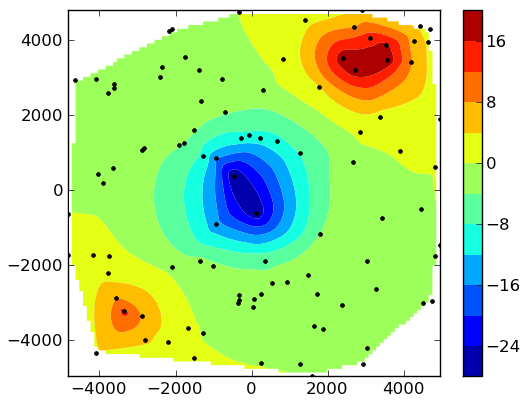
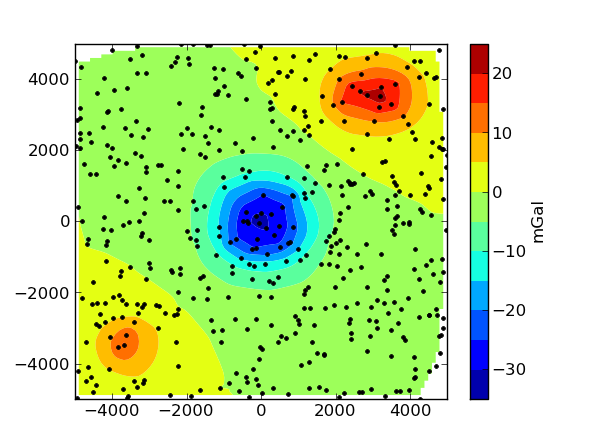
Added changelog to docs, moved install to getting-started, added links to contributors

diff --git a/fatiando/vis/__init__.py b/fatiando/vis/__init__.py
@@ -25,5 +25,5 @@ from fatiando.vis.vtk import *
 
 # Get some useful things from matplotlib
 from matplotlib.pyplot import (plot, show, figure, xlim, ylim, xlabel, ylabel,
-    gca, axis, subplot, savefig, legend)
+    gca, axis, subplot, savefig, legend, colorbar, grid, hist, title)
     

diff --git a/doc/index.rst b/doc/index.rst
@@ -1,5 +1,5 @@
-Welcome to Fatiando a Terra
-===========================
+Welcome to Fatiando a Terra's documentation
+===========================================
 
 Fatiando a Terra is an open source toolkit for geophysical modeling and
 inversion. Fatiando provides an easy and flexible way to perform common
@@ -11,52 +11,56 @@ This means that it can be reused and remixed
 with few restrictions.
 See the license text for more information.
 
-The main interface for Fatiando is provided by a
-`Python <http://www.python.org>`_ package (:ref:`the API <api>`). This means that
-commands in Fatiando are in executed using Python scripts, instead of the
-command line or shell scripts. The advantage of this is that Python is a very
-feature rich and powerful programming language. So, you can easily extend the
-functionality of Fatiando with your own code!
+The main interface for Fatiando
+is provided by a Python_ package (:ref:`the API <api>`).
+This means that commands in Fatiando
+are executed using Python scripts,
+instead of the command line or shell scripts.
+The advantage of this is that
+Python is a very feature rich and powerful programming language.
+So, you can easily combine different commands together
+and even extend the functionality of Fatiando with your own code!
+
+.. _Python: http://www.python.org
 
 As an example, this is how easy it is to create synthetic noise-corrupted
 gravity data on random points from a 3D prism model:
 
 .. doctest::
 
-    >>> # Get the needed components
-    >>> from matplotlib import pyplot
-    >>> from fatiando import potential, gridder, utils, vis
-    >>> from fatiando.mesher.ddd import Prism
+    >>> import fatiando as fat
     >>> # Create the prism model
-    >>> prisms = [Prism(-4000, -3000, -4000, -3000, 0, 2000, {'density':1000}),
-    ...           Prism(-1000, 1000, -1000, 1000, 0, 2000, {'density':-1000}),
-    ...           Prism(2000, 4000, 3000, 4000, 0, 2000, {'density':1000})]
-    >>> # Generate 100 random observation points at 100m height
-    >>> xp, yp, zp = gridder.scatter((-5000, 5000, -5000, 5000), 100, z=-100)
+    >>> prisms = [
+    ...     fat.msh.ddd.Prism(-4000, -3000, -4000, -3000, 0, 2000, {'density':1000}),
+    ...     fat.msh.ddd.Prism(-1000, 1000, -1000, 1000, 0, 2000, {'density':-1000}),
+    ...     fat.msh.ddd.Prism(2000, 4000, 3000, 4000, 0, 2000, {'density':1000})]
+    >>> # Generate 500 random observation points at 100m height
+    >>> xp, yp, zp = fat.grd.scatter((-5000, 5000, -5000, 5000), 500, z=-100)
     >>> # Calculate their gravitational effect and contaminate it with 0.1 mGal
     >>> # gaussian noise
-    >>> gz = utils.contaminate(potential.prism.gz(xp, yp, zp, prisms), 0.1)
+    >>> gz = fat.utils.contaminate(fat.pot.prism.gz(xp, yp, zp, prisms), 0.1)
     >>> # Plot the result
-    >>> vis.map.contourf(xp, yp, gz, (100, 100), 12, interpolate=True)
-    >>> pyplot.plot(xp, yp, '.k')
-    >>> pyplot.colorbar()
-    >>> pyplot.show()
+    >>> fat.vis.contourf(xp, yp, gz, (100, 100), 12, interp=True)
+    >>> cb = fat.vis.colorbar()
+    >>> cb.set_label('mGal')
+    >>> fat.vis.plot(xp, yp, '.k')
+    >>> fat.vis.show()
 
-which results in
+which results in something like this:
 
 .. image:: _static/sample.png
     :align: center
 
-
 If you want to find out more,
-have a look at the rest of the documentation.
+have a look at the rest of this documentation.
 
 .. toctree::
-    :maxdepth: 1
+    :maxdepth: 2
 
     contributors.rst
     license.rst
-    install.rst
+    changelog.rst
+    getting-started.rst
     cookbook/index.rst
     api/index.rst
 

diff --git a/doc/changelog.rst b/doc/changelog.rst
@@ -1,0 +1,17 @@
+.. _changelog:
+
+Changelog
+=========
+
+Changes in 0.1
+--------------
+
+* Change license to BSD (see the :ref:`license text <license>`).
+* The API is now fully accessible by only import fatiando. Modules and packages
+  have short nicknames for easier access (e.g., pot for potential).
+* Import all from map and vtk in vis/__init__.py, plus some functions from
+  matplotlib. Now all plotting functions are available from vis directly.
+* If building inplace or packaging, the setup script puts the Mercurial
+  changeset hash in a file. Then logger.header loads the hash from file and put
+  a "Unknown" if it can't read. This way importing fatiando won't fail if the
+  there is no changeset information available.

diff --git a/doc/contributors.rst b/doc/contributors.rst
@@ -5,6 +5,10 @@ Contributors
 
 A (hopefully) updated list of people who contributed to Fatiando a Terra:
 
-* Leonardo Uieda - Observatório Nacional, Brazil - leouieda[at]gmail[dot]com
-* Vanderlei Coelho de Oliveira Junior - Observatório Nacional, Brazil
-* José Fernando Caparica Junior - LENEP, Brazil
+* `Leonardo Uieda`_ - Observatório Nacional, Brazil
+* `Vanderlei Coelho de Oliveira Junior`_ - Observatório Nacional, Brazil
+* `José Fernando Caparica Junior`_ - LENEP, Brazil
+
+.. _Leonardo Uieda: http://fatiando.org/people/uieda
+.. _Vanderlei Coelho de Oliveira Junior: http://fatiando.org/people/oliveira-jr
+.. _José Fernando Caparica Junior: http://fatiando.org/people/caparicajr

diff --git a/doc/getting-started.rst b/doc/getting-started.rst
@@ -1,0 +1,8 @@
+.. _getting-started:
+
+Getting started
+===============
+
+.. toctree::
+
+    install.rst
